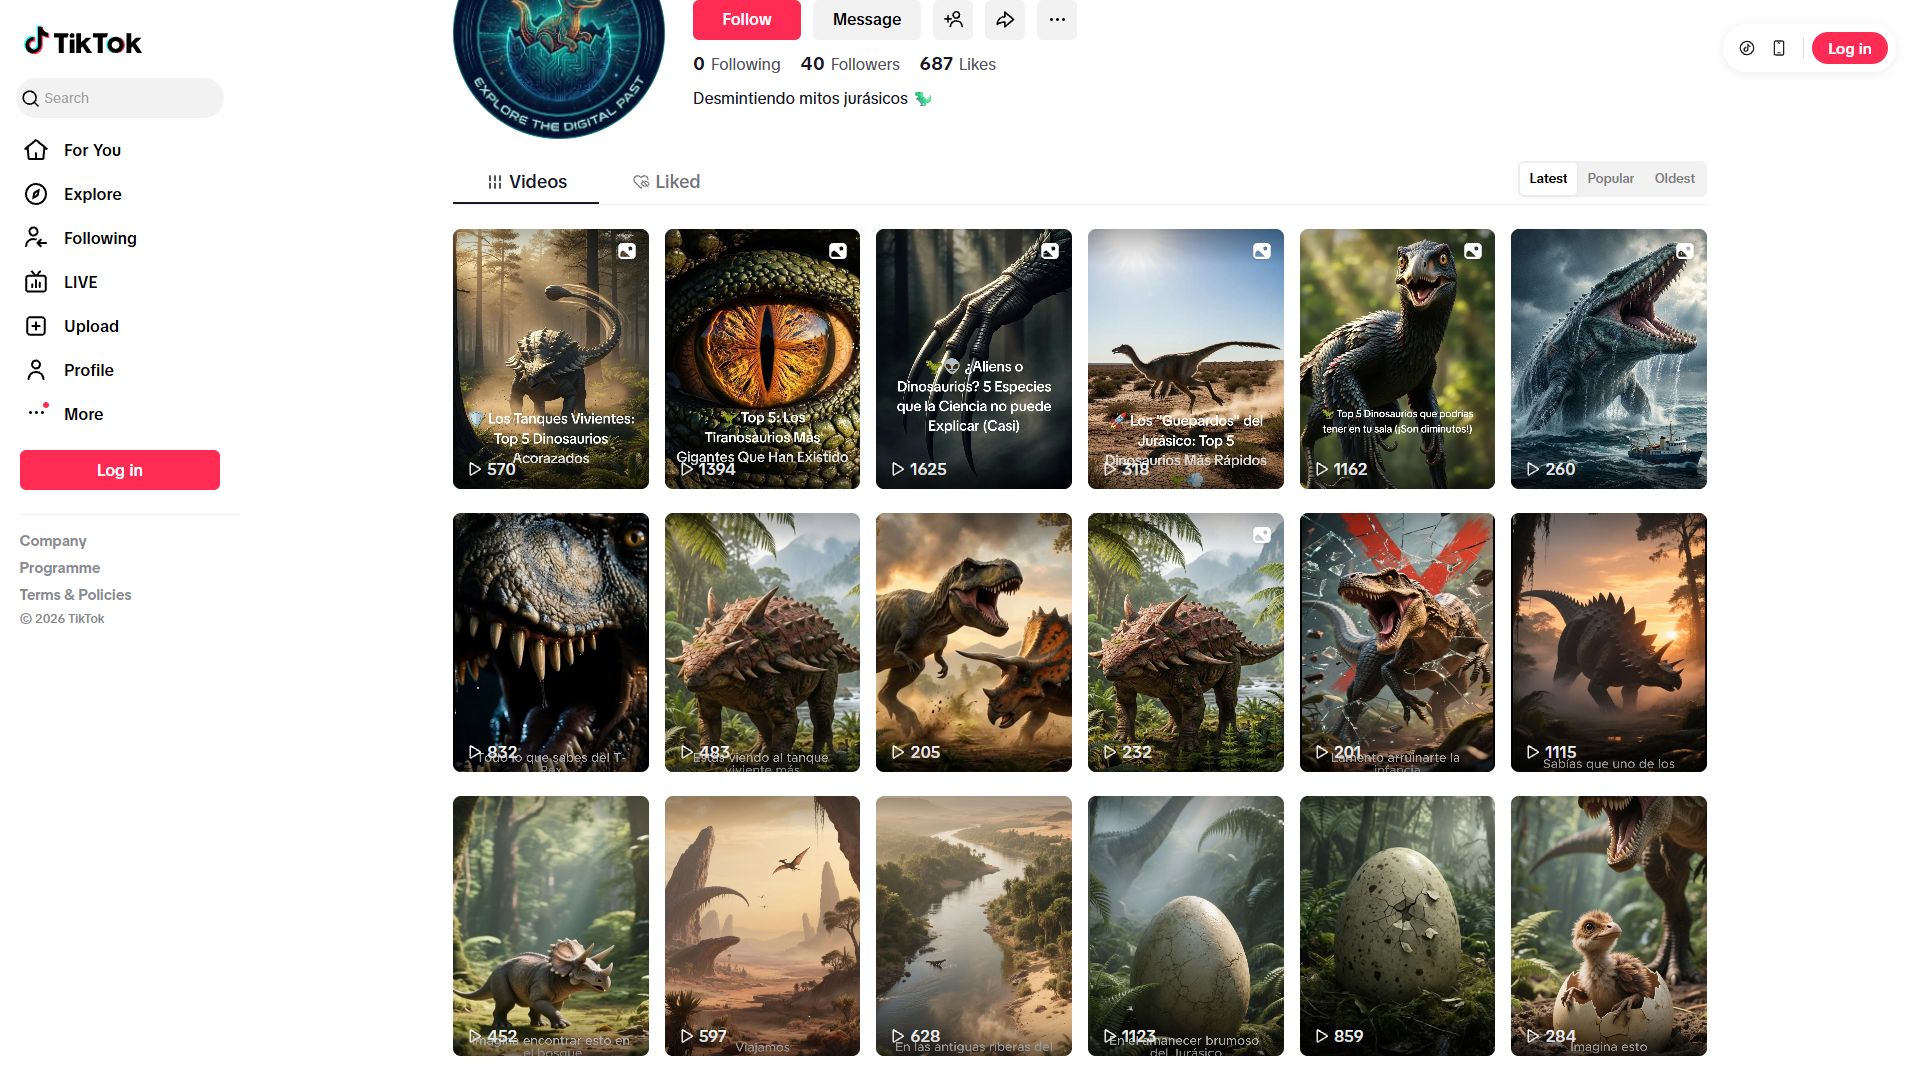
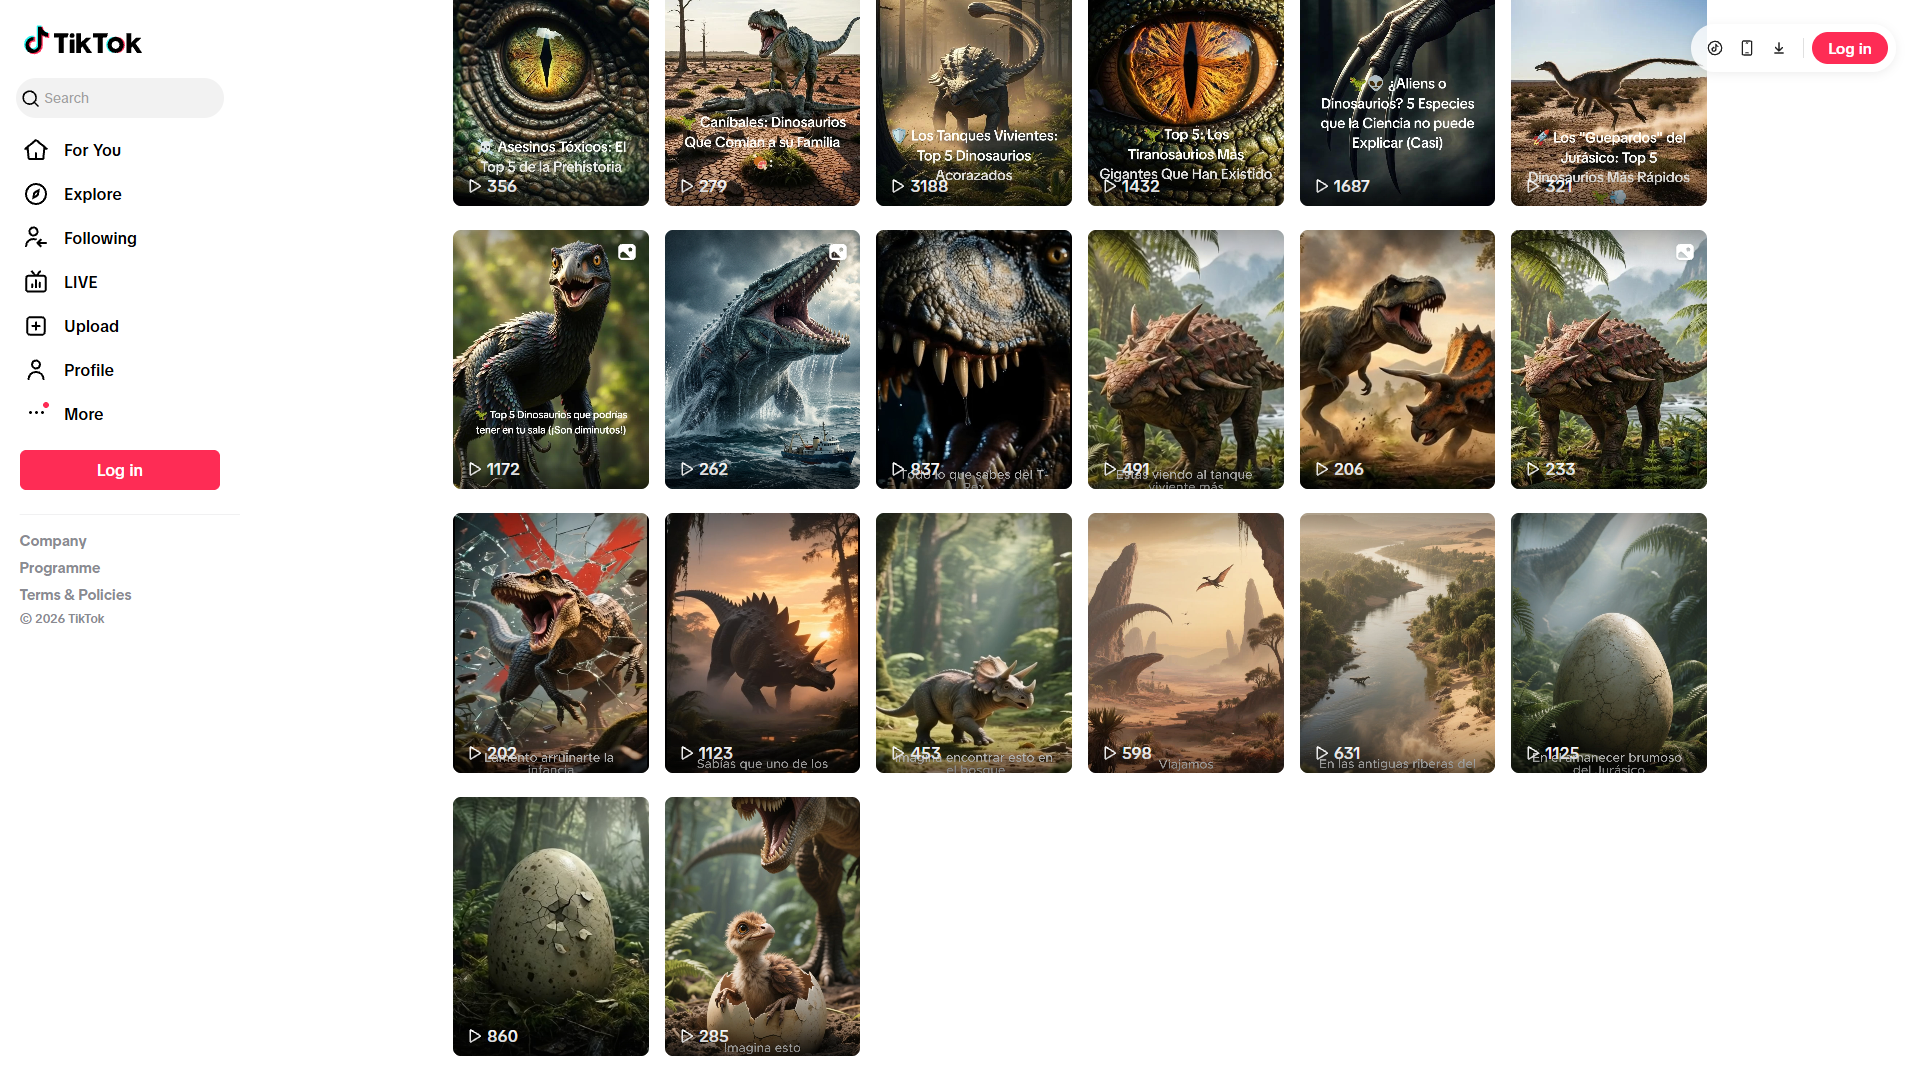
feat: Add script to extract ideas from Excel to JSON and update TikTok profile data and related assets.

diff --git a/read_excel_debug.js b/read_excel_debug.js
@@ -1,0 +1,20 @@
+const XLSX = require('./.agent/skills/gestor-ideas/node_modules/xlsx');
+const fs = require('fs');
+const path = require('path');
+
+try {
+    const filePath = "c:\\Users\\Kevin Mejia\\Documents\\GitHub\\promts_dinos\\plantilla_dinosaurios_100.xlsx";
+    const workbook = XLSX.readFile(filePath);
+    const sheetName = 'carrusel'; // Use 'carrusel' specifically as per manage_ideas.js
+    const worksheet = workbook.Sheets[sheetName];
+    if (!worksheet) {
+        console.error("Sheet 'carrusel' not found!");
+        process.exit(1);
+    }
+    const data = XLSX.utils.sheet_to_json(worksheet);
+
+    fs.writeFileSync('debug_ideas.json', JSON.stringify(data, null, 2));
+    console.log('Done writing to debug_ideas.json');
+} catch (error) {
+    console.error("Error:", error);
+}
